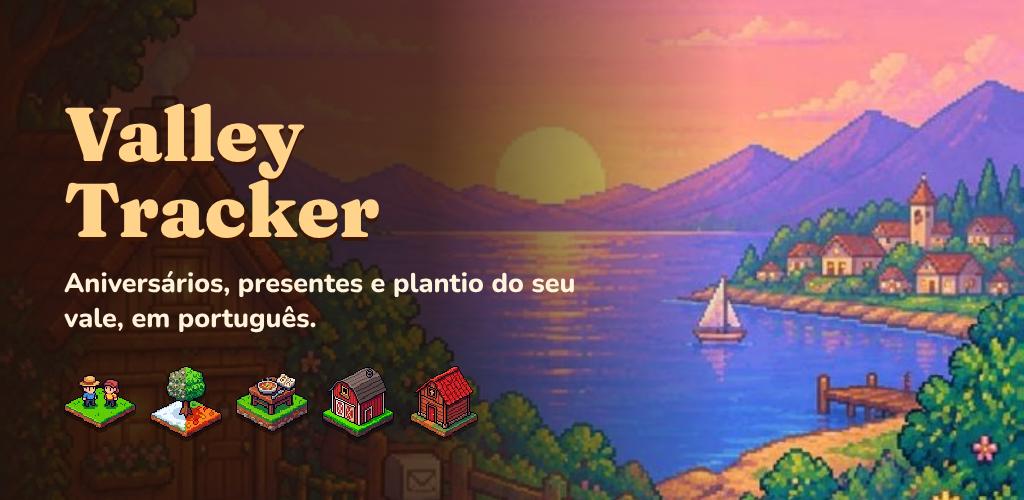
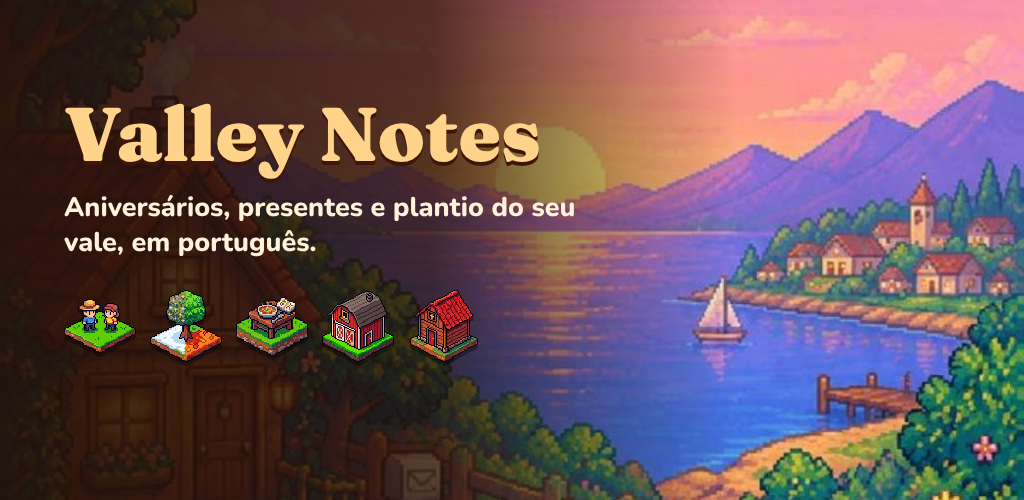
feat: app passa a se chamar Valley Notes
- Nome embaixo do ícone, título da página, notificação e textos do botão
  flutuante, workflows (ValleyNotes-teste.apk) e README
- Ficha da loja: 'Valley Notes: Guia da Fazenda' (29 de 30 caracteres) e
  gráfico de recursos refeito com o nome novo
- O ID com.rodzza.stvalleytracker não muda (não aparece ao usuário)

Claude-Session: https://claude.ai/code/session_0144sTyqrEHzncBwKEhJDKhz

Changed region(s): [[0.0625, 0.54, 0.5625, 0.87], [0.0625, 0.36, 0.5625, 0.51], [0.3125, 0.21, 0.5312, 0.33]]

diff --git a/src/screens/FloatingQuests.tsx b/src/screens/FloatingQuests.tsx
@@ -88,7 +88,7 @@ export function FloatingQuests() {
     if (!day) return;
     const r = await overlayShowDays(daysFrom(day));
     if (r === 'shown') setMessage('Botão ativado. Abra o jogo: ele aparece sobre a tela. Toque nele para ver o dia e, ao dormir no jogo, toque em Dormi.');
-    else if (r === 'no-permission') setMessage('Falta permitir "Exibir sobre outros apps" para o Valley Tracker.');
+    else if (r === 'no-permission') setMessage('Falta permitir "Exibir sobre outros apps" para o Valley Notes.');
     else if (r === 'unsupported') setMessage('O botão flutuante só funciona no app Android.');
     else setMessage('Não consegui ativar o botão.');
     await refresh();

diff --git a/src/utils/dayOverlay.ts b/src/utils/dayOverlay.ts
@@ -118,7 +118,7 @@ export function buildDayOverlay(d: GameDay, villagers: readonly Villager[], gift
     else lines.push('🌱 Não dá mais tempo de colher nada plantado hoje nesta estação.');
   }
 
-  lines.push('Mude o dia no Valley Tracker para atualizar.');
+  lines.push('Mude o dia no Valley Notes para atualizar.');
   return { title: dayTitle(d), lines };
 }
 

diff --git a/index.html b/index.html
@@ -4,7 +4,7 @@
     <meta charset="UTF-8" />
     <meta name="viewport" content="width=device-width, initial-scale=1, viewport-fit=cover" />
     <meta name="theme-color" content="#2b2060" />
-    <title>Valley Tracker</title>
+    <title>Valley Notes</title>
   </head>
   <body>
     <div id="root"></div>

diff --git a/capacitor.config.ts b/capacitor.config.ts
@@ -2,7 +2,7 @@ import type { CapacitorConfig } from '@capacitor/cli';
 
 const config: CapacitorConfig = {
   appId: 'com.rodzza.stvalleytracker', // ID definitivo na Google Play: NÃO mude depois de publicar
-  appName: 'Valley Tracker',
+  appName: 'Valley Notes',
   webDir: 'dist',
 };
 

diff --git a/plugins/valley-native/android/src/main/java/com/valleytracker/nativeplugin/OverlayService.java b/plugins/valley-native/android/src/main/java/com/valleytracker/nativeplugin/OverlayService.java
@@ -106,7 +106,7 @@ public class OverlayService extends Service {
             b = new Notification.Builder(this);
         }
         b.setSmallIcon(android.R.drawable.ic_dialog_info)
-                .setContentTitle("Valley Tracker")
+                .setContentTitle("Valley Notes")
                 .setContentText("Botão flutuante ativo. Toque para abrir o app.")
                 .setOngoing(true);
 
@@ -166,7 +166,7 @@ public class OverlayService extends Service {
         circle.setColor(0xFF1F7A4D);
         circle.setStroke(dp(2), Color.WHITE);
         bubble.setBackground(circle);
-        bubble.setContentDescription("Valley Tracker: abrir ou fechar as dicas do dia");
+        bubble.setContentDescription("Valley Notes: abrir ou fechar as dicas do dia");
         root.addView(bubble, new LinearLayout.LayoutParams(dp(48), dp(48)));
 
         panel = new LinearLayout(this);
@@ -290,7 +290,7 @@ public class OverlayService extends Service {
             if (index < days.length() - 1) {
                 row.addView(chip("\uD83C\uDF19 Dormi, +1 dia", 0xFF6B4BB3, v -> moveDay(1)));
             } else {
-                TextView end = text("Abra o Valley Tracker para carregar mais dias.", 12, 0xFFFFD38A, false);
+                TextView end = text("Abra o Valley Notes para carregar mais dias.", 12, 0xFFFFD38A, false);
                 end.setPadding(0, dp(10), 0, 0);
                 panel.addView(end);
             }

diff --git a/loja/ficha-da-loja.md b/loja/ficha-da-loja.md
@@ -12,13 +12,15 @@ As imagens usam só as artes próprias do app (ícones e ilustração da tela in
 Nenhuma arte de personagem ou do jogo.
 
 ## Nome do app (até 30 caracteres)
-Valley Tracker
+Valley Notes: Guia da Fazenda
+
+Nome embaixo do ícone no celular: Valley Notes
 
 ## Descrição curta (até 80 caracteres)
 Aniversários, presentes e plantio do vale, em português. App não oficial.
 
 ## Descrição completa (até 4.000 caracteres)
-Valley Tracker é um companheiro para quem joga Stardew Valley e quer tudo à mão, em português, sem ficar abrindo a wiki no meio da partida.
+Valley Notes é um companheiro para quem joga Stardew Valley e quer tudo à mão, em português, sem ficar abrindo a wiki no meio da partida.
 
 O QUE VOCÊ ENCONTRA
 • Moradores: aniversário, onde mora, família e o que cada um ama, gosta e odeia ganhar
@@ -34,7 +36,7 @@ VERSÃO PRO
 Libere ferramentas extras com a assinatura mensal ou a compra vitalícia, pela própria Google Play. Algumas funções também podem ser liberadas por um dia assistindo a um anúncio.
 
 AVISO
-Valley Tracker é um app de fã, não oficial, sem vínculo com a ConcernedApe nem aprovação dela. Stardew Valley é marca de seus respectivos donos. Os dados do jogo vêm da Stardew Valley Wiki e são usados sob a licença CC BY-SA, com créditos dentro do app.
+Valley Notes é um app de fã, não oficial, sem vínculo com a ConcernedApe nem aprovação dela. Stardew Valley é marca de seus respectivos donos. Os dados do jogo vêm da Stardew Valley Wiki e são usados sob a licença CC BY-SA, com créditos dentro do app.
 
 ## Categoria e contato
 - Categoria: Livros e referências (ou Entretenimento)

diff --git a/README.md b/README.md
@@ -1,4 +1,4 @@
-# Valley Tracker (esqueleto)
+# Valley Notes (esqueleto)
 
 Companheiro de Stardew Valley para Android: React + Vite + Capacitor.
 
@@ -110,5 +110,5 @@ gosto, avisos e páginas sem dados. Grupos ("All Eggs"...) não viram itens. Gos
 ## Testar no celular sem computador
 - **Prévia no navegador:** `VITE_PREVIEW=true npx vite build --base=./ --outDir dist-preview` gera uma versão web com anúncios e compra simulados.
 - **APK na nuvem:** envie o projeto para um repositório do GitHub e rode a ação "APK de teste" (aba Actions › Run workflow).
-  Ao terminar, baixe o artefato `valley-tracker-apk`, extraia o zip e instale o `app-debug.apk` (permita instalar de fontes
+  Ao terminar, baixe o artefato `valley-notes-apk`, extraia o zip e instale o `app-debug.apk` (permita instalar de fontes
   desconhecidas). Troque `appId` em `capacitor.config.ts` por um ID seu antes de publicar na Play Store.
